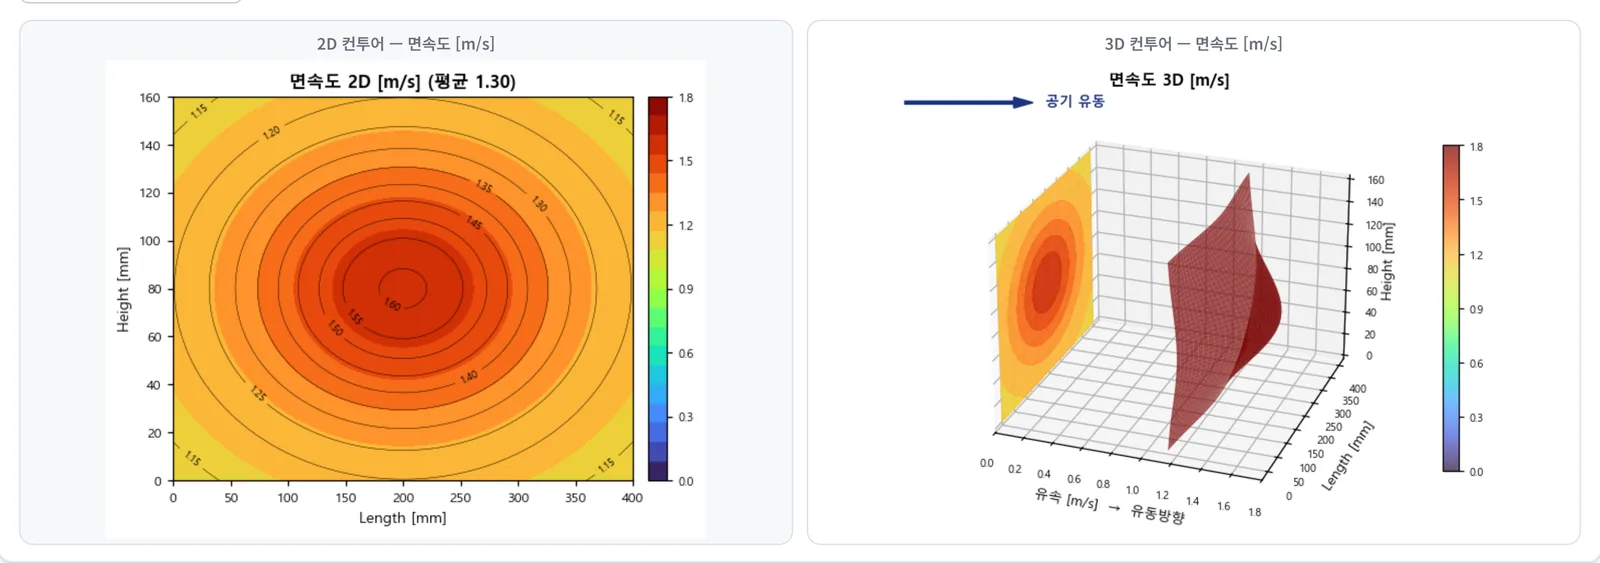
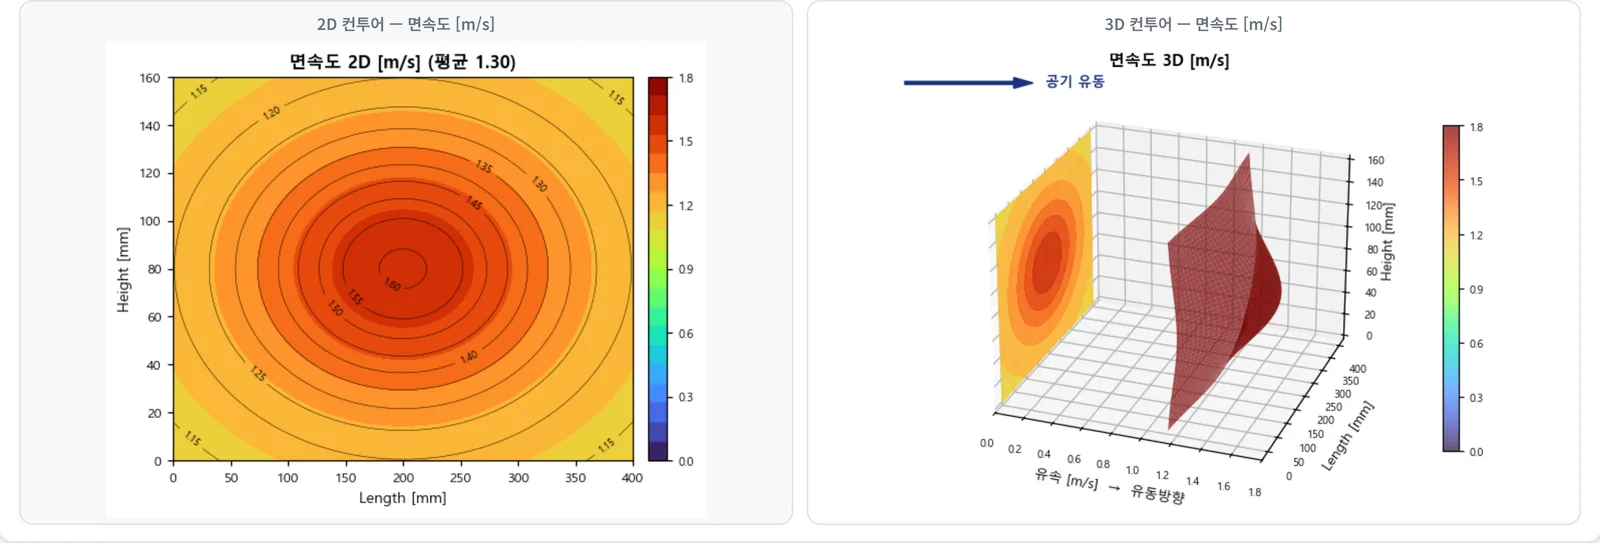
소개 페이지에 스텝 1~6 화면 전부 · 문구를 프로그램 사이드바와 일치
종전에는 ②회로 · ⑤성능요약 · ④풍량 · ⑥분포맵 네 장뿐이고 ①형상 입력 ·
③유체 조건 화면이 없었다. 기능 블록을 6개로 늘려 프로그램 사이드바
(1 형상 입력 › 2 냉매 회로 › 3 유체 조건 › 4 풍량 분포 › 계산 ›
 5 성능요약 › 6 분포맵)와 번호를 일대일로 맞췄다. 데스크톱·모바일 동일.

- assets/dimension.webp 신규 — 수정된 프로그램의 3D 형상 프리뷰
  (관 단면·테두리·음영·핀 회색·핀피치 표기 반영본)
- assets/fluid.webp 신규 — 유체 조건 화면
- assets/airflow.webp 갱신 — 원본 좌상단 앱 버튼 조각을 잘라내
  종횡비가 2.842 → 2.945 로 바뀌어 높이 563 → 543
- WORKFLOW 카드 문구도 사이드바 표기로 교체
  (HX Dimension → 형상 입력, Circuit → 냉매 회로, Fluid → 유체 조건,
   Result ① → 성능요약, Result ② → 분포맵)
- ⚠ '실제 치수 비율로 렌더링하고 U-bend 표시' 는 ⑥ 분포맵에 잘못 붙어
  있던 3D 렌더 설명이라 ① 로 옮겼다

Claude-Session: https://claude.ai/code/session_01VNdJC8772PMG3SDrJnszNh

diff --git a/m.html b/m.html
@@ -243,12 +243,12 @@ h2{margin:0; font-size:21px; line-height:1.3; font-weight:800; letter-spacing:-.
       <h2>여섯 단계로 끝나는 설계 검토</h2>
       <p class="sub">화면 왼쪽 순서대로 진행하면 형상 입력에서 분포 해석까지 이어집니다.</p>
       <div class="steps">
-        <div class="step"><div class="num">1</div><h3>HX Dimension</h3><p>튜브·핀 형상<br>열수·단수·피치</p></div>
-        <div class="step"><div class="num">2</div><h3>Circuit</h3><p>냉매 배관<br>드래그 연결</p></div>
-        <div class="step"><div class="num">3</div><h3>Fluid</h3><p>공기·냉매<br>운전조건</p></div>
+        <div class="step"><div class="num">1</div><h3>형상 입력</h3><p>튜브·핀 형상<br>열수·단수·피치</p></div>
+        <div class="step"><div class="num">2</div><h3>냉매 회로</h3><p>배관 드래그<br>분지·합지</p></div>
+        <div class="step"><div class="num">3</div><h3>유체 조건</h3><p>공기 입구상태<br>작동유체 58종</p></div>
         <div class="step"><div class="num">4</div><h3>풍량 분포</h3><p>팬 비균일<br>2D·3D 프리뷰</p></div>
-        <div class="step"><div class="num">5</div><h3>Result ①</h3><p>성능 요약<br>선도·상태표</p></div>
-        <div class="step"><div class="num">6</div><h3>Result ②</h3><p>면·열별<br>분포 컬러맵</p></div>
+        <div class="step"><div class="num">5</div><h3>성능요약</h3><p>용량·압력강하<br>선도·상태표</p></div>
+        <div class="step"><div class="num">6</div><h3>분포맵</h3><p>면별·열별<br>분포 컬러맵</p></div>
       </div>
     </div>
   </section>
@@ -260,63 +260,104 @@ h2{margin:0; font-size:21px; line-height:1.3; font-weight:800; letter-spacing:-.
       <h2>설계는 자유롭게,<br>결과는 직관적으로.</h2>
       <p class="sub">정해진 회로 템플릿에 형상을 맞추는 대신, 원하는 회로를 그려놓고 그 결과를 봅니다.</p>
 
+      <!--  2026-09-03: 스텝 1~6 화면을 **모두** 싣는다(사용자 요청).
+            종전에는 ②회로 · ⑤성능요약 · ④풍량 · ⑥분포맵 네 장뿐이고
+            ①형상 입력 · ③유체 조건 화면이 없었다. 번호는 프로그램 사이드바
+            (1 형상 입력 › 2 냉매 회로 › 3 유체 조건 › 4 풍량 분포 › 계산 ›
+             5 성능요약 › 6 분포맵)와 일대일로 맞춘다.
+            ⚠ '실제 치수 비율로 렌더링하고 U-bend 표시' 는 종전 ⑥ 항목에 붙어
+               있었으나 3D 형상 렌더 설명이므로 ① 로 옮겼다. -->
       <div class="feat">
         <span class="idx">1</span>
-        <h3>드래그로 그리는 냉매 회로</h3>
+        <h3>형상 입력 — 치수를 넣으면 3D로 즉시 확인</h3>
         <ul>
-          <li>튜브를 드래그해 배관을 연결하고 <b>분지·합지</b>를 임의로 구성합니다.</li>
-          <li>전 튜브 1회 포함·순환 발생을 실시간으로 검증합니다.</li>
-          <li>연결하지 않은 튜브는 <b>독립 1튜브 회로</b>로 자동 처리합니다.</li>
+          <li>튜브 길이·열수·단수·피치·외경을 넣으면 <b>3D 형상이 곧바로 갱신</b>됩니다.</li>
+          <li>실제 치수 비율로 렌더링하고 L·W·H·OD·핀피치를 치수선으로 함께 표시합니다.</li>
+          <li>엇갈림 배열과 관 단면(내경)까지 그려 <b>배관 배열을 눈으로 확인</b>합니다.</li>
+          <li>평판핀·루버핀을 고르면 루버 치수(Lp·Lh)와 해당 상관식이 함께 나타납니다.</li>
         </ul>
-        <figure class="shot tall">
-          <img src="assets/circuit.webp" width="1000" height="1452" loading="lazy"
-               alt="회로 편집 화면 — 튜브 격자 위에 색으로 구분된 냉매 회로">
-          <figcaption>회로 편집 — 색 = 회로 · ★ = 입구</figcaption>
+        <figure class="shot">
+          <img src="assets/dimension.webp" width="1200" height="1125" loading="lazy"
+               alt="형상 입력 화면 — 핀튜브 열교환기가 3차원으로 렌더링되고 길이·폭·높이·외경 치수선이 표시된다.">
+          <figcaption>① 형상 입력 — L · W · H · OD · 핀피치를 3D로 확인</figcaption>
         </figure>
       </div>
 
       <div class="feat">
         <span class="idx">2</span>
-        <h3>격자 단위 성능 예측</h3>
+        <h3>냉매 회로 — 드래그로 그린다</h3>
         <ul>
-          <li>높이·깊이·길이 <b>3방향으로 격자를 분할</b>해 셀별로 해석합니다.</li>
-          <li>셀별 국소 열전달과 압력강하를 각각 계산합니다.</li>
-          <li>습표면 조건에서 <b>응축수(제습량)</b>를 산출합니다.</li>
+          <li>튜브를 드래그해 배관을 연결하고, <b>분지(split)·합지(merge)</b>를 임의로 구성합니다.</li>
+          <li>전 튜브 1회 포함·순환 발생 여부를 실시간으로 검증합니다.</li>
+          <li>연결하지 않은 튜브는 <b>독립 1튜브 회로</b>로 자동 처리합니다.</li>
+          <li>유량 분배는 <b>ΔP 균일화(반복 자기분배)</b> 또는 균등 분배 중 선택합니다.</li>
         </ul>
-        <figure class="shot">
-          <img src="assets/result1.webp" width="1400" height="1131" loading="lazy"
-               alt="성능 요약 화면 — 용량·압력강하 KPI와 습공기선도·P-h 선도">
-          <figcaption>Result ① — 용량 · 압력강하 · 제습량</figcaption>
+        <figure class="shot tall">
+          <img src="assets/circuit.webp" width="1000" height="1452" loading="lazy"
+               alt="회로 편집 화면 — 튜브 격자 위에 색으로 구분된 냉매 회로가 그려져 있고 별표가 입구를 표시한다.">
+          <figcaption>② 냉매 회로 — 색 = 회로 · ★ = 입구 · U-bend 실선/점선 구분</figcaption>
         </figure>
       </div>
 
       <div class="feat">
         <span class="idx">3</span>
-        <h3>팬 풍량 비균일 반영</h3>
+        <h3>유체 조건 — 작동유체 58종</h3>
+        <ul>
+          <li>공기 입구상태는 건구온도에 <b>습구온도·상대습도·절대습도·엔탈피·노점</b> 중 하나를 더해 지정합니다.</li>
+          <li>작동유체는 <b>58종</b>(물·공기·R717·R744·R290·R410A·R134a·R1234yf 등)에서 고릅니다 — 물성은 CoolProp 기반입니다.</li>
+          <li>냉매 입구는 물 조건, 직접 지정(압력 + 온도 또는 건도), 증발기 모드(응축기 출구 기준) 중에서 정합니다.</li>
+          <li>단상·2상 열전달과 압력강하 상관식을 각각 선택합니다.</li>
+        </ul>
+        <figure class="shot">
+          <img src="assets/fluid.webp" width="1400" height="887" loading="lazy"
+               alt="유체 조건 화면 — 공기측과 작동유체측 입구 조건, 상관식 선택 항목이 두 열로 배치되어 있다.">
+          <figcaption>③ 유체 조건 — 공기 입구상태 5방식 · 작동유체 58종</figcaption>
+        </figure>
+      </div>
+
+      <div class="feat">
+        <span class="idx">4</span>
+        <h3>풍량 분포 — 팬 비균일 반영</h3>
         <ul>
           <li>중앙은 강하고 가장자리는 약한 <b>실제 팬 토출 분포</b>를 반영합니다.</li>
           <li>입구면 셀별로 공기 조건을 차등 적용합니다.</li>
           <li>2D·3D 프리뷰로 분포를 확인한 뒤 계산에 넣습니다.</li>
         </ul>
         <figure class="shot">
-          <img src="assets/airflow.webp" width="1600" height="563" loading="lazy"
-               alt="풍량 분포 화면 — 입구면 풍속의 2D 컨투어와 3D 곡면">
-          <figcaption>풍량 분포 — 팬 σ · floor · β 로 조절</figcaption>
+          <img src="assets/airflow.webp" width="1600" height="543" loading="lazy"
+               alt="풍량 분포 화면 — 입구면의 풍속 분포가 2차원 컨투어와 3차원 곡면으로 표시된다.">
+          <figcaption>④ 풍량 분포 — 팬 σ · floor · β 로 비균일 조절</figcaption>
         </figure>
       </div>
 
       <div class="feat">
-        <span class="idx">4</span>
-        <h3>면·열별 분포를 컬러맵으로</h3>
+        <span class="idx">5</span>
+        <h3>성능 요약 — 격자 단위 예측</h3>
+        <ul>
+          <li>높이·깊이·길이 <b>3방향으로 격자를 분할</b>해 셀별로 해석합니다.</li>
+          <li>셀별 국소 열전달과 압력강하를 각각 계산합니다.</li>
+          <li>습표면 조건에서 <b>응축수(제습량)</b>를 산출합니다.</li>
+          <li>결과는 습공기선도·P-h 선도와 회로별 유량 분배로 함께 제시됩니다.</li>
+        </ul>
+        <figure class="shot">
+          <img src="assets/result1.webp" width="1400" height="1131" loading="lazy"
+               alt="성능 요약 화면 — 용량과 압력강하 KPI, 습공기선도, P-h 선도가 배치되어 있다.">
+          <figcaption>⑤ 성능요약 — 용량 · 압력강하 · 제습량 · 회로별 유량 분배</figcaption>
+        </figure>
+      </div>
+
+      <div class="feat">
+        <span class="idx">6</span>
+        <h3>분포맵 — 면·열별 컬러맵</h3>
         <ul>
           <li>공기 입구면에서 출구면까지, 냉매 열별 분포를 표시합니다.</li>
-          <li>온도·유량·상태량을 색으로 구분해 <b>취약 구간을 즉시 식별</b>합니다.</li>
-          <li>실제 치수 비율로 렌더링하고 U-bend를 함께 표시합니다.</li>
+          <li>온도·유량·상태량을 색으로 구분해 <b>성능 취약 구간을 즉시 식별</b>합니다.</li>
+          <li>면별·열별을 골라 보고, 상세 분포는 컨투어로 다시 그립니다.</li>
         </ul>
         <figure class="shot">
           <img src="assets/result2.webp" width="1400" height="1131" loading="lazy"
-               alt="면·열별 분포 화면 — 온도에 따라 색으로 구분된 컬러맵">
-          <figcaption>Result ② — 면·열별 분포 컬러맵</figcaption>
+               alt="면·열별 분포 화면 — 열교환기 단면이 온도에 따라 색으로 구분된 컬러맵으로 표시된다.">
+          <figcaption>⑥ 분포맵 — 면·열별 분포 컬러맵</figcaption>
         </figure>
       </div>
     </div>

diff --git a/index.html b/index.html
@@ -428,12 +428,12 @@ h2{
         <p>화면 왼쪽 순서대로 진행하면 형상 입력에서 분포 해석까지 이어집니다.</p>
       </div>
       <div class="steps">
-        <div class="step"><div class="num">1</div><h3>HX Dimension</h3><p>튜브·핀 형상<br>열수·단수·피치</p></div>
-        <div class="step"><div class="num">2</div><h3>Circuit</h3><p>냉매 배관<br>드래그 연결</p></div>
-        <div class="step"><div class="num">3</div><h3>Fluid</h3><p>공기·냉매<br>운전조건</p></div>
+        <div class="step"><div class="num">1</div><h3>형상 입력</h3><p>튜브·핀 형상<br>열수·단수·피치</p></div>
+        <div class="step"><div class="num">2</div><h3>냉매 회로</h3><p>배관 드래그<br>분지·합지</p></div>
+        <div class="step"><div class="num">3</div><h3>유체 조건</h3><p>공기 입구상태<br>작동유체 58종</p></div>
         <div class="step"><div class="num">4</div><h3>풍량 분포</h3><p>팬 비균일<br>2D·3D 프리뷰</p></div>
-        <div class="step"><div class="num">5</div><h3>Result ①</h3><p>성능 요약<br>선도·상태표</p></div>
-        <div class="step"><div class="num">6</div><h3>Result ②</h3><p>면·열별<br>분포 컬러맵</p></div>
+        <div class="step"><div class="num">5</div><h3>성능요약</h3><p>용량·압력강하<br>선도·상태표</p></div>
+        <div class="step"><div class="num">6</div><h3>분포맵</h3><p>면별·열별<br>분포 컬러맵</p></div>
       </div>
     </div>
   </section>
@@ -447,10 +447,35 @@ h2{
         <p>정해진 회로 템플릿에 형상을 맞추는 대신, 원하는 회로를 그려놓고 그 결과를 봅니다.</p>
       </div>
 
+      <!--  2026-09-03: 스텝 1~6 화면을 **모두** 싣는다(사용자 요청).
+            종전에는 ②회로 · ⑤성능요약 · ④풍량 · ⑥분포맵 네 장뿐이고
+            ①형상 입력 · ③유체 조건 화면이 없었다. 번호는 프로그램 사이드바
+            (1 형상 입력 › 2 냉매 회로 › 3 유체 조건 › 4 풍량 분포 › 계산 ›
+             5 성능요약 › 6 분포맵)와 일대일로 맞춘다.
+            ⚠ '실제 치수 비율로 렌더링하고 U-bend 표시' 는 종전 ⑥ 항목에 붙어
+               있었으나 3D 형상 렌더 설명이므로 ① 로 옮겼다. -->
       <div class="feat">
         <div class="txt">
           <span class="idx">1</span>
-          <h3>드래그로 그리는 냉매 회로</h3>
+          <h3>형상 입력 — 치수를 넣으면 3D로 즉시 확인</h3>
+          <ul>
+            <li>튜브 길이·열수·단수·피치·외경을 넣으면 <b>3D 형상이 곧바로 갱신</b>됩니다.</li>
+            <li>실제 치수 비율로 렌더링하고 L·W·H·OD·핀피치를 치수선으로 함께 표시합니다.</li>
+            <li>엇갈림 배열과 관 단면(내경)까지 그려 <b>배관 배열을 눈으로 확인</b>합니다.</li>
+            <li>평판핀·루버핀을 고르면 루버 치수(Lp·Lh)와 해당 상관식이 함께 나타납니다.</li>
+          </ul>
+        </div>
+        <figure class="shot">
+          <img src="assets/dimension.webp" width="1200" height="1125" loading="lazy"
+               alt="형상 입력 화면 — 핀튜브 열교환기가 3차원으로 렌더링되고 길이·폭·높이·외경 치수선이 표시된다.">
+          <figcaption>① 형상 입력 — L · W · H · OD · 핀피치를 3D로 확인</figcaption>
+        </figure>
+      </div>
+
+      <div class="feat rev">
+        <div class="txt">
+          <span class="idx">2</span>
+          <h3>냉매 회로 — 드래그로 그린다</h3>
           <ul>
             <li>튜브를 드래그해 배관을 연결하고, <b>분지(split)·합지(merge)</b>를 임의로 구성합니다.</li>
             <li>전 튜브 1회 포함·순환 발생 여부를 실시간으로 검증합니다.</li>
@@ -461,14 +486,49 @@ h2{
         <figure class="shot tall">
           <img src="assets/circuit.webp" width="1000" height="1452" loading="lazy"
                alt="회로 편집 화면 — 튜브 격자 위에 색으로 구분된 냉매 회로가 그려져 있고 별표가 입구를 표시한다.">
-          <figcaption>회로 편집 — 색 = 회로 · ★ = 입구 · U-bend 실선/점선 구분</figcaption>
+          <figcaption>② 냉매 회로 — 색 = 회로 · ★ = 입구 · U-bend 실선/점선 구분</figcaption>
+        </figure>
+      </div>
+
+      <div class="feat">
+        <div class="txt">
+          <span class="idx">3</span>
+          <h3>유체 조건 — 작동유체 58종</h3>
+          <ul>
+            <li>공기 입구상태는 건구온도에 <b>습구온도·상대습도·절대습도·엔탈피·노점</b> 중 하나를 더해 지정합니다.</li>
+            <li>작동유체는 <b>58종</b>(물·공기·R717·R744·R290·R410A·R134a·R1234yf 등)에서 고릅니다 — 물성은 CoolProp 기반입니다.</li>
+            <li>냉매 입구는 물 조건, 직접 지정(압력 + 온도 또는 건도), 증발기 모드(응축기 출구 기준) 중에서 정합니다.</li>
+            <li>단상·2상 열전달과 압력강하 상관식을 각각 선택합니다.</li>
+          </ul>
+        </div>
+        <figure class="shot">
+          <img src="assets/fluid.webp" width="1400" height="887" loading="lazy"
+               alt="유체 조건 화면 — 공기측과 작동유체측 입구 조건, 상관식 선택 항목이 두 열로 배치되어 있다.">
+          <figcaption>③ 유체 조건 — 공기 입구상태 5방식 · 작동유체 58종</figcaption>
         </figure>
       </div>
 
       <div class="feat rev">
         <div class="txt">
-          <span class="idx">2</span>
-          <h3>격자 단위 성능 예측</h3>
+          <span class="idx">4</span>
+          <h3>풍량 분포 — 팬 비균일 반영</h3>
+          <ul>
+            <li>중앙은 강하고 가장자리는 약한 <b>실제 팬 토출 분포</b>를 반영합니다.</li>
+            <li>입구면 셀별로 공기 조건을 차등 적용합니다.</li>
+            <li>2D·3D 프리뷰로 분포를 확인한 뒤 계산에 넣습니다.</li>
+          </ul>
+        </div>
+        <figure class="shot">
+          <img src="assets/airflow.webp" width="1600" height="543" loading="lazy"
+               alt="풍량 분포 화면 — 입구면의 풍속 분포가 2차원 컨투어와 3차원 곡면으로 표시된다.">
+          <figcaption>④ 풍량 분포 — 팬 σ · floor · β 로 비균일 조절</figcaption>
+        </figure>
+      </div>
+
+      <div class="feat">
+        <div class="txt">
+          <span class="idx">5</span>
+          <h3>성능 요약 — 격자 단위 예측</h3>
           <ul>
             <li>높이·깊이·길이 <b>3방향으로 격자를 분할</b>해 셀별로 해석합니다.</li>
             <li>셀별 국소 열전달과 압력강하를 각각 계산합니다.</li>
@@ -479,44 +539,26 @@ h2{
         <figure class="shot">
           <img src="assets/result1.webp" width="1400" height="1131" loading="lazy"
                alt="성능 요약 화면 — 용량과 압력강하 KPI, 습공기선도, P-h 선도가 배치되어 있다.">
-          <figcaption>Result ① — 용량 · 압력강하 · 제습량 · 회로별 유량 분배</figcaption>
-        </figure>
-      </div>
-
-      <div class="feat">
-        <div class="txt">
-          <span class="idx">3</span>
-          <h3>팬 풍량 비균일 반영</h3>
-          <ul>
-            <li>중앙은 강하고 가장자리는 약한 <b>실제 팬 토출 분포</b>를 반영합니다.</li>
-            <li>입구면 셀별로 공기 조건을 차등 적용합니다.</li>
-            <li>2D·3D 프리뷰로 분포를 확인한 뒤 계산에 넣습니다.</li>
-          </ul>
-        </div>
-        <figure class="shot">
-          <img src="assets/airflow.webp" width="1600" height="563" loading="lazy"
-               alt="풍량 분포 화면 — 입구면의 풍속 분포가 2차원 컨투어와 3차원 곡면으로 표시된다.">
-          <figcaption>풍량 분포 — 팬 σ · floor · β 로 비균일 조절</figcaption>
+          <figcaption>⑤ 성능요약 — 용량 · 압력강하 · 제습량 · 회로별 유량 분배</figcaption>
         </figure>
       </div>
 
       <div class="feat rev">
         <div class="txt">
-          <span class="idx">4</span>
-          <h3>면·열별 분포를 컬러맵으로</h3>
+          <span class="idx">6</span>
+          <h3>분포맵 — 면·열별 컬러맵</h3>
           <ul>
             <li>공기 입구면에서 출구면까지, 냉매 열별 분포를 표시합니다.</li>
             <li>온도·유량·상태량을 색으로 구분해 <b>성능 취약 구간을 즉시 식별</b>합니다.</li>
-            <li>실제 치수 비율로 렌더링하고 U-bend를 함께 표시합니다.</li>
+            <li>면별·열별을 골라 보고, 상세 분포는 컨투어로 다시 그립니다.</li>
           </ul>
         </div>
         <figure class="shot">
           <img src="assets/result2.webp" width="1400" height="1131" loading="lazy"
                alt="면·열별 분포 화면 — 열교환기 단면이 온도에 따라 색으로 구분된 컬러맵으로 표시된다.">
-          <figcaption>Result ② — 면·열별 분포 컬러맵</figcaption>
+          <figcaption>⑥ 분포맵 — 면·열별 분포 컬러맵</figcaption>
         </figure>
       </div>
-    </div>
   </section>
 
   <!-- 모바일 -->
